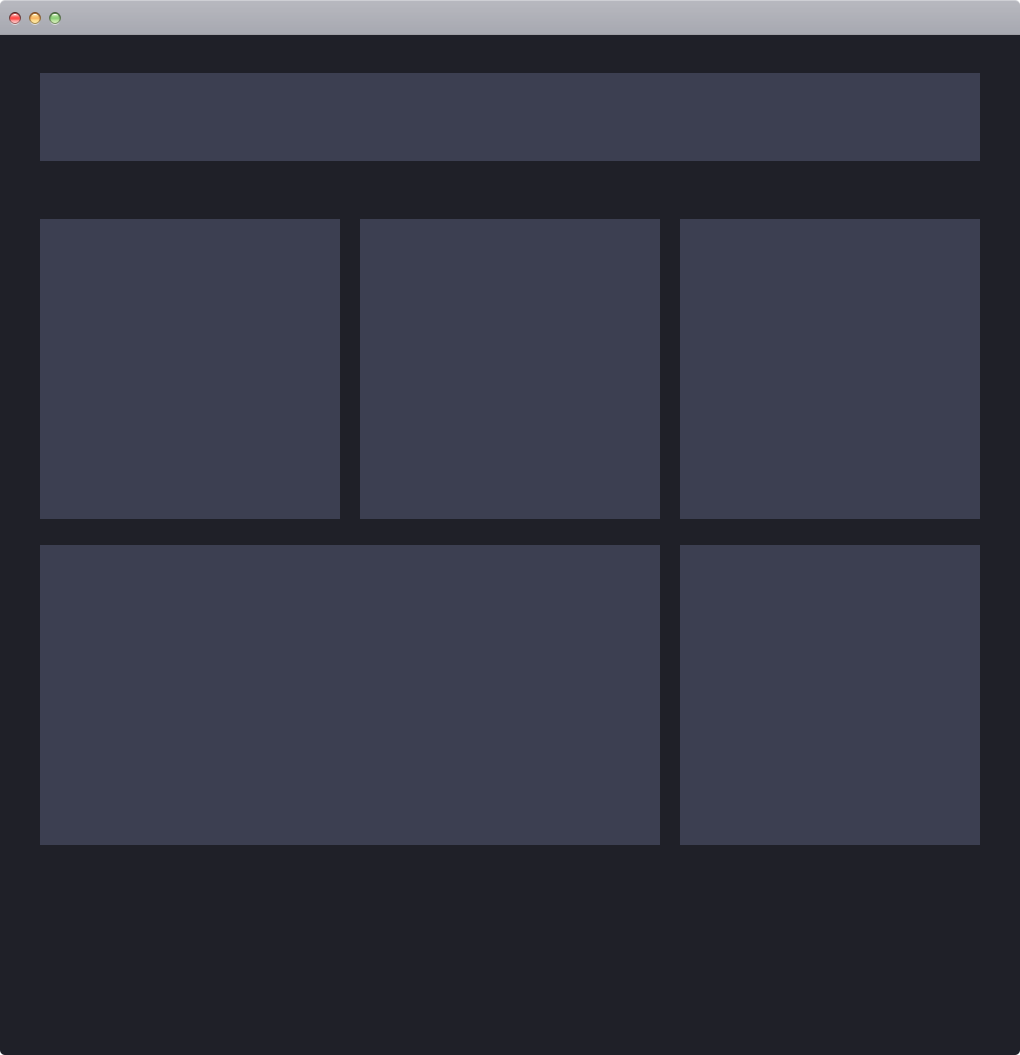
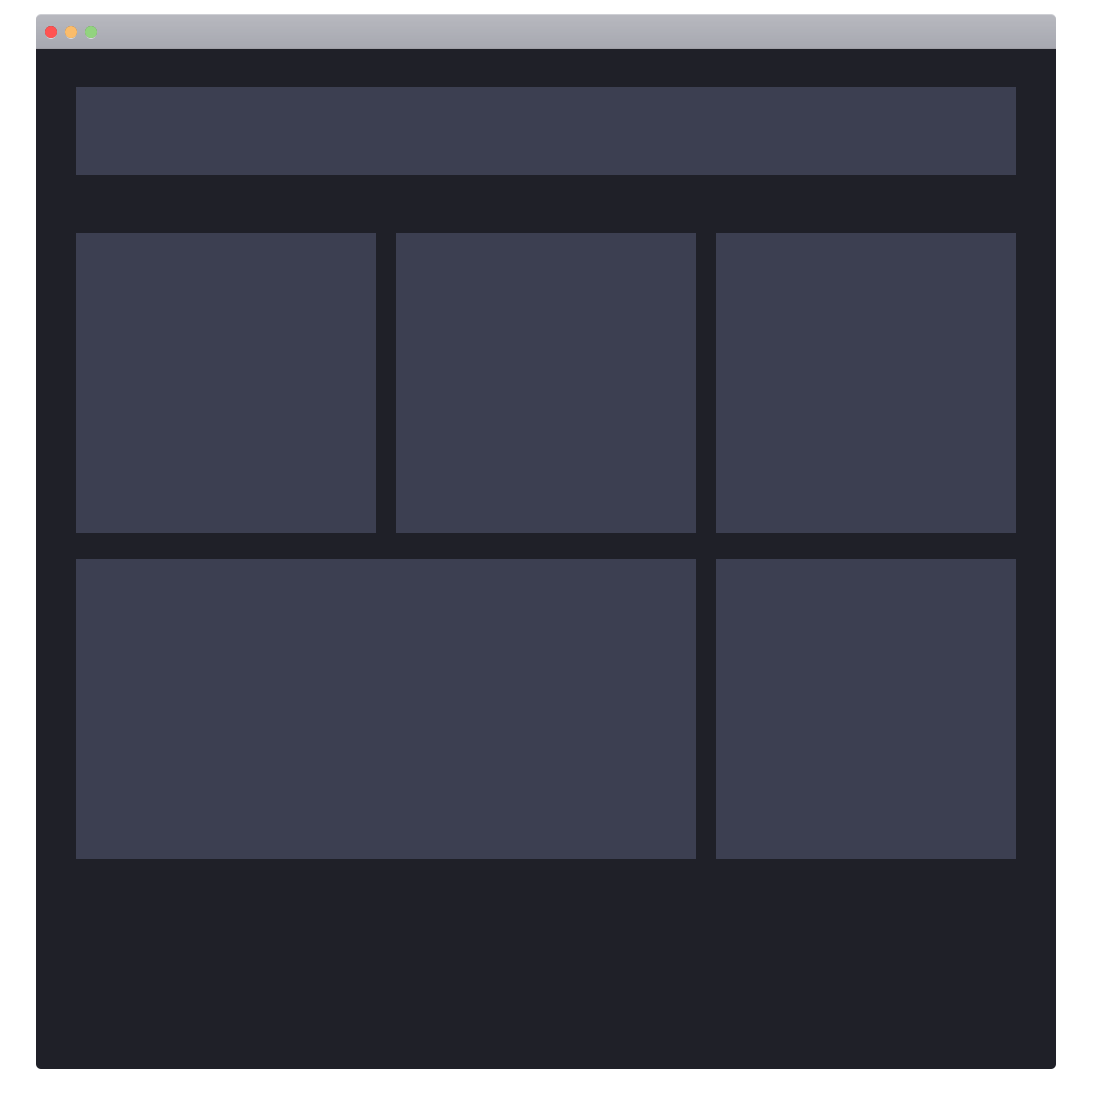
new dashboard

Changed region(s): [[0.0, 0.0, 1.0, 1.0]]

diff --git a/index.html b/index.html
@@ -37,7 +37,7 @@
 
             <div class="content">
                 <section class="dash">
-                    <img src="assets/site.png">
+                    <img src="assets/dash-web.png">
                 </section>
                 <aside>
                     <h1>DYNAMIC INFOGRAPHICS</h1>
